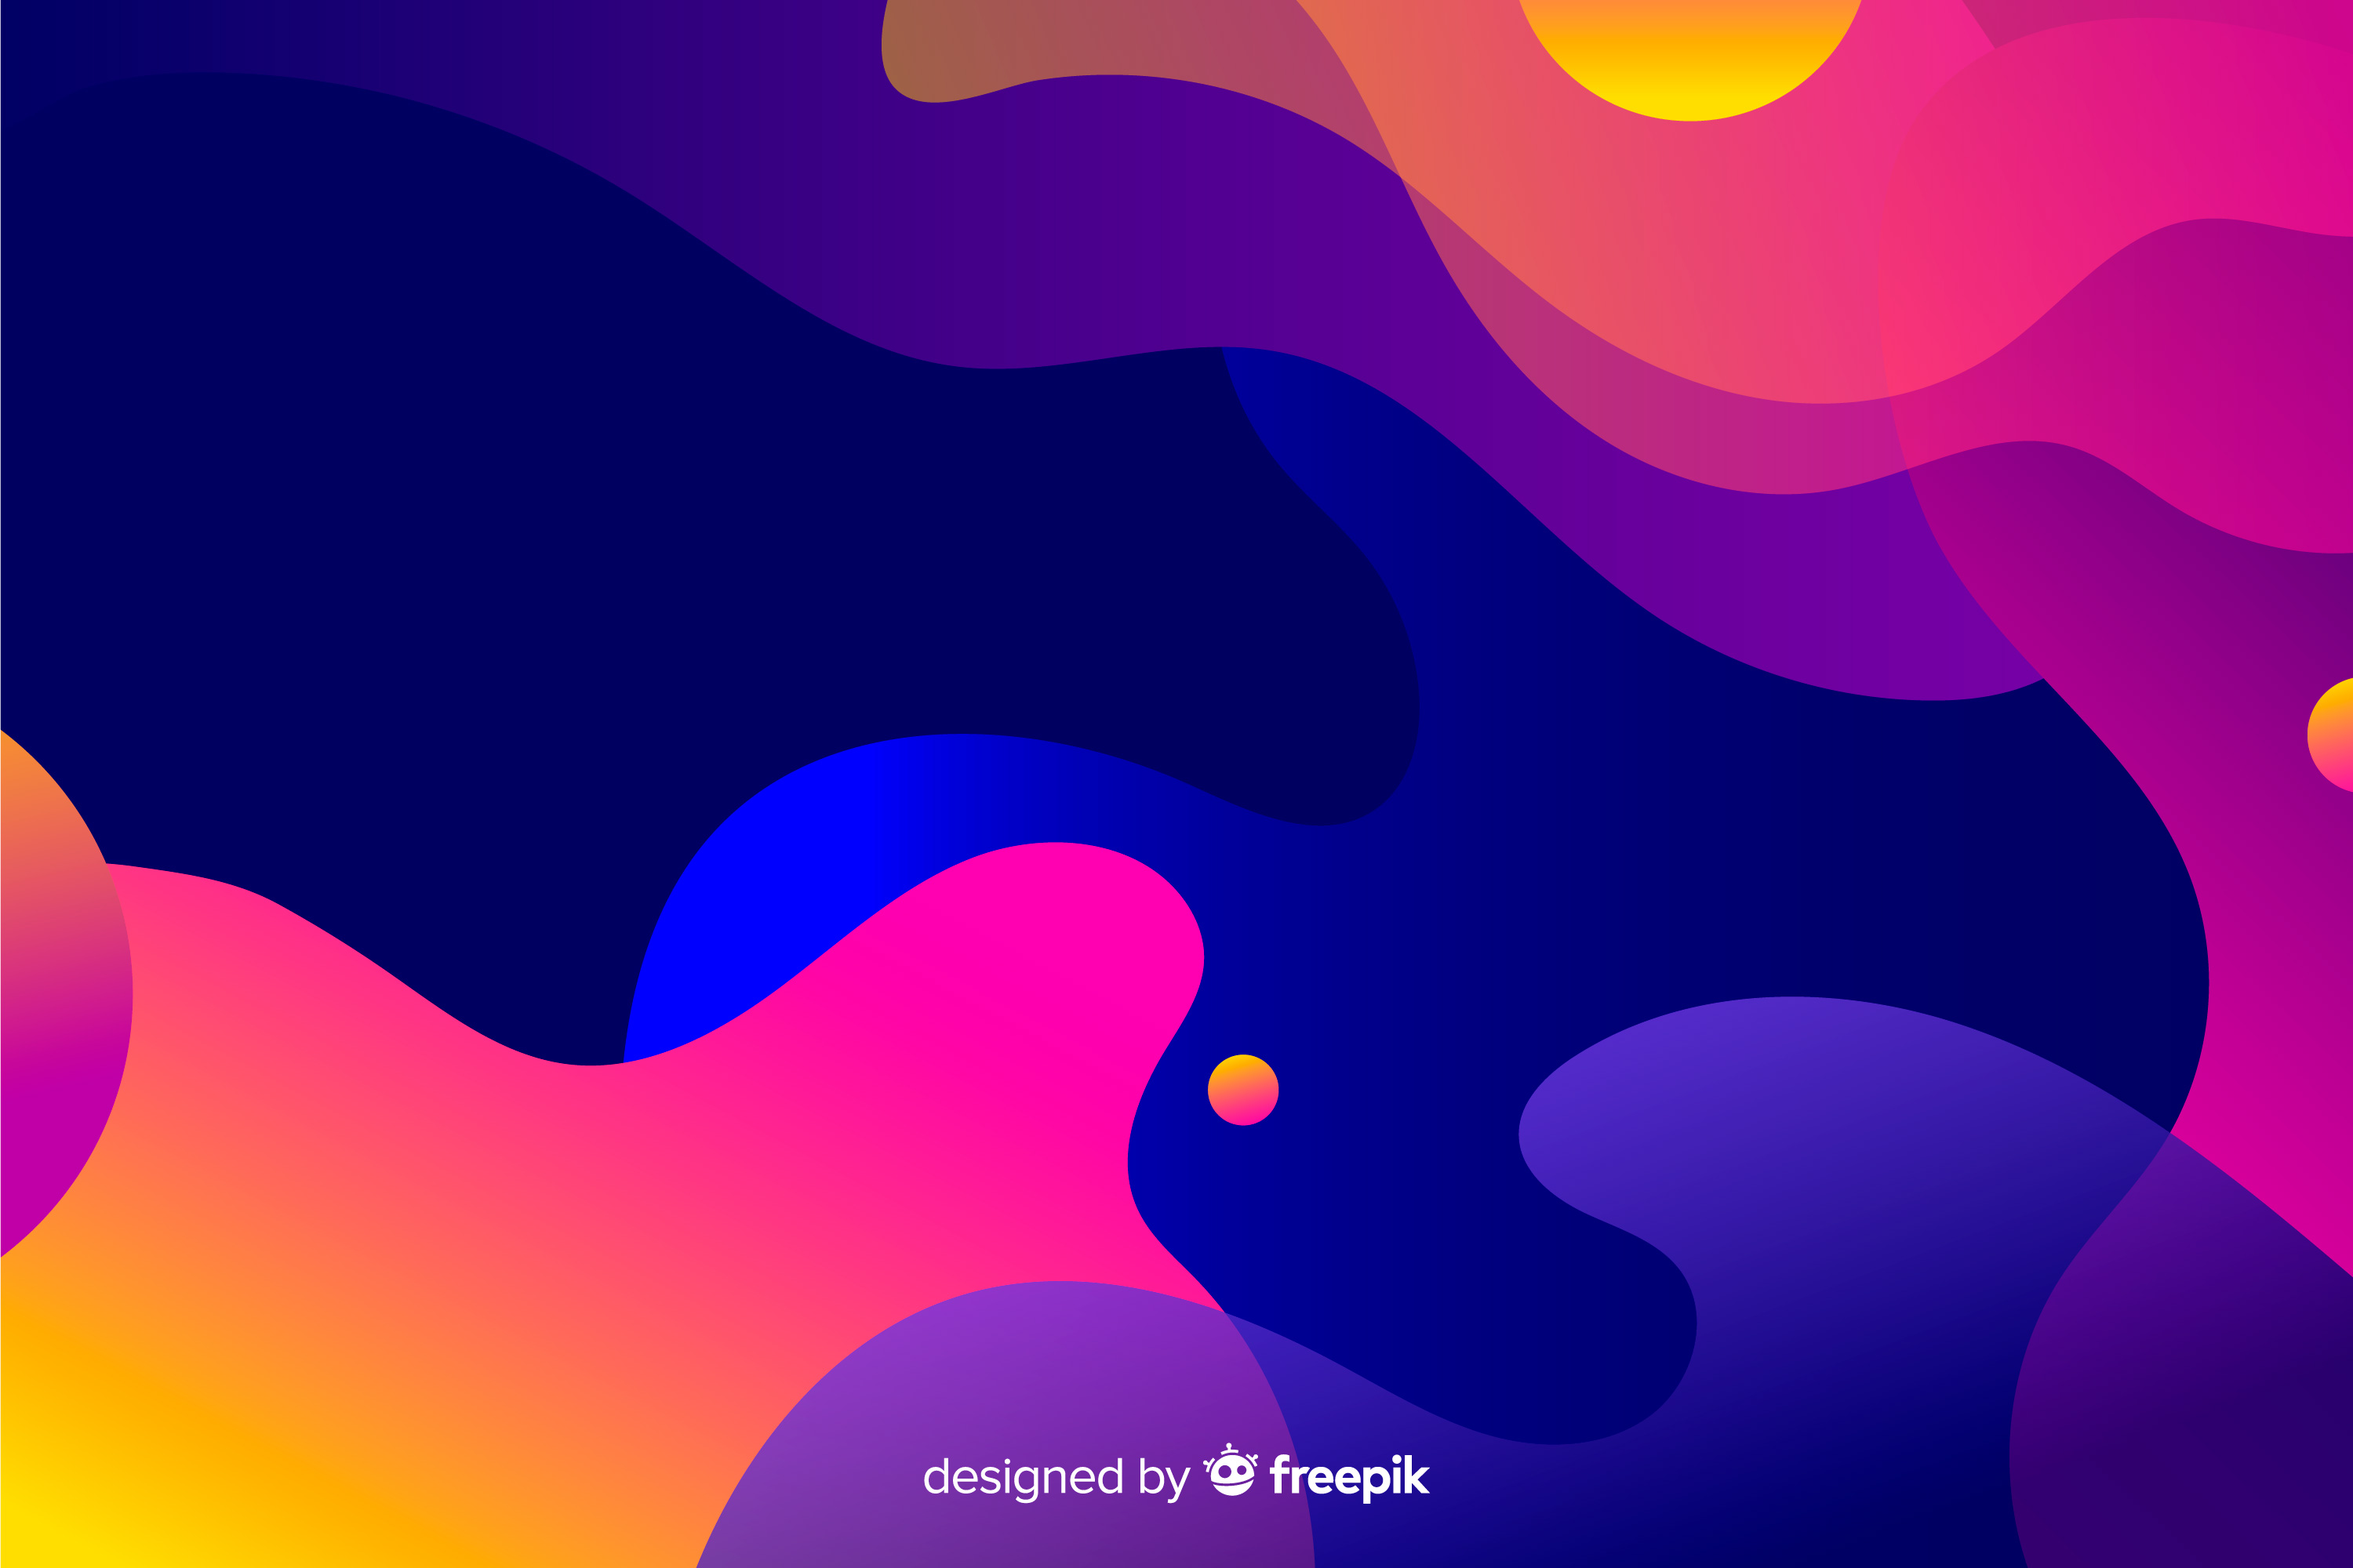
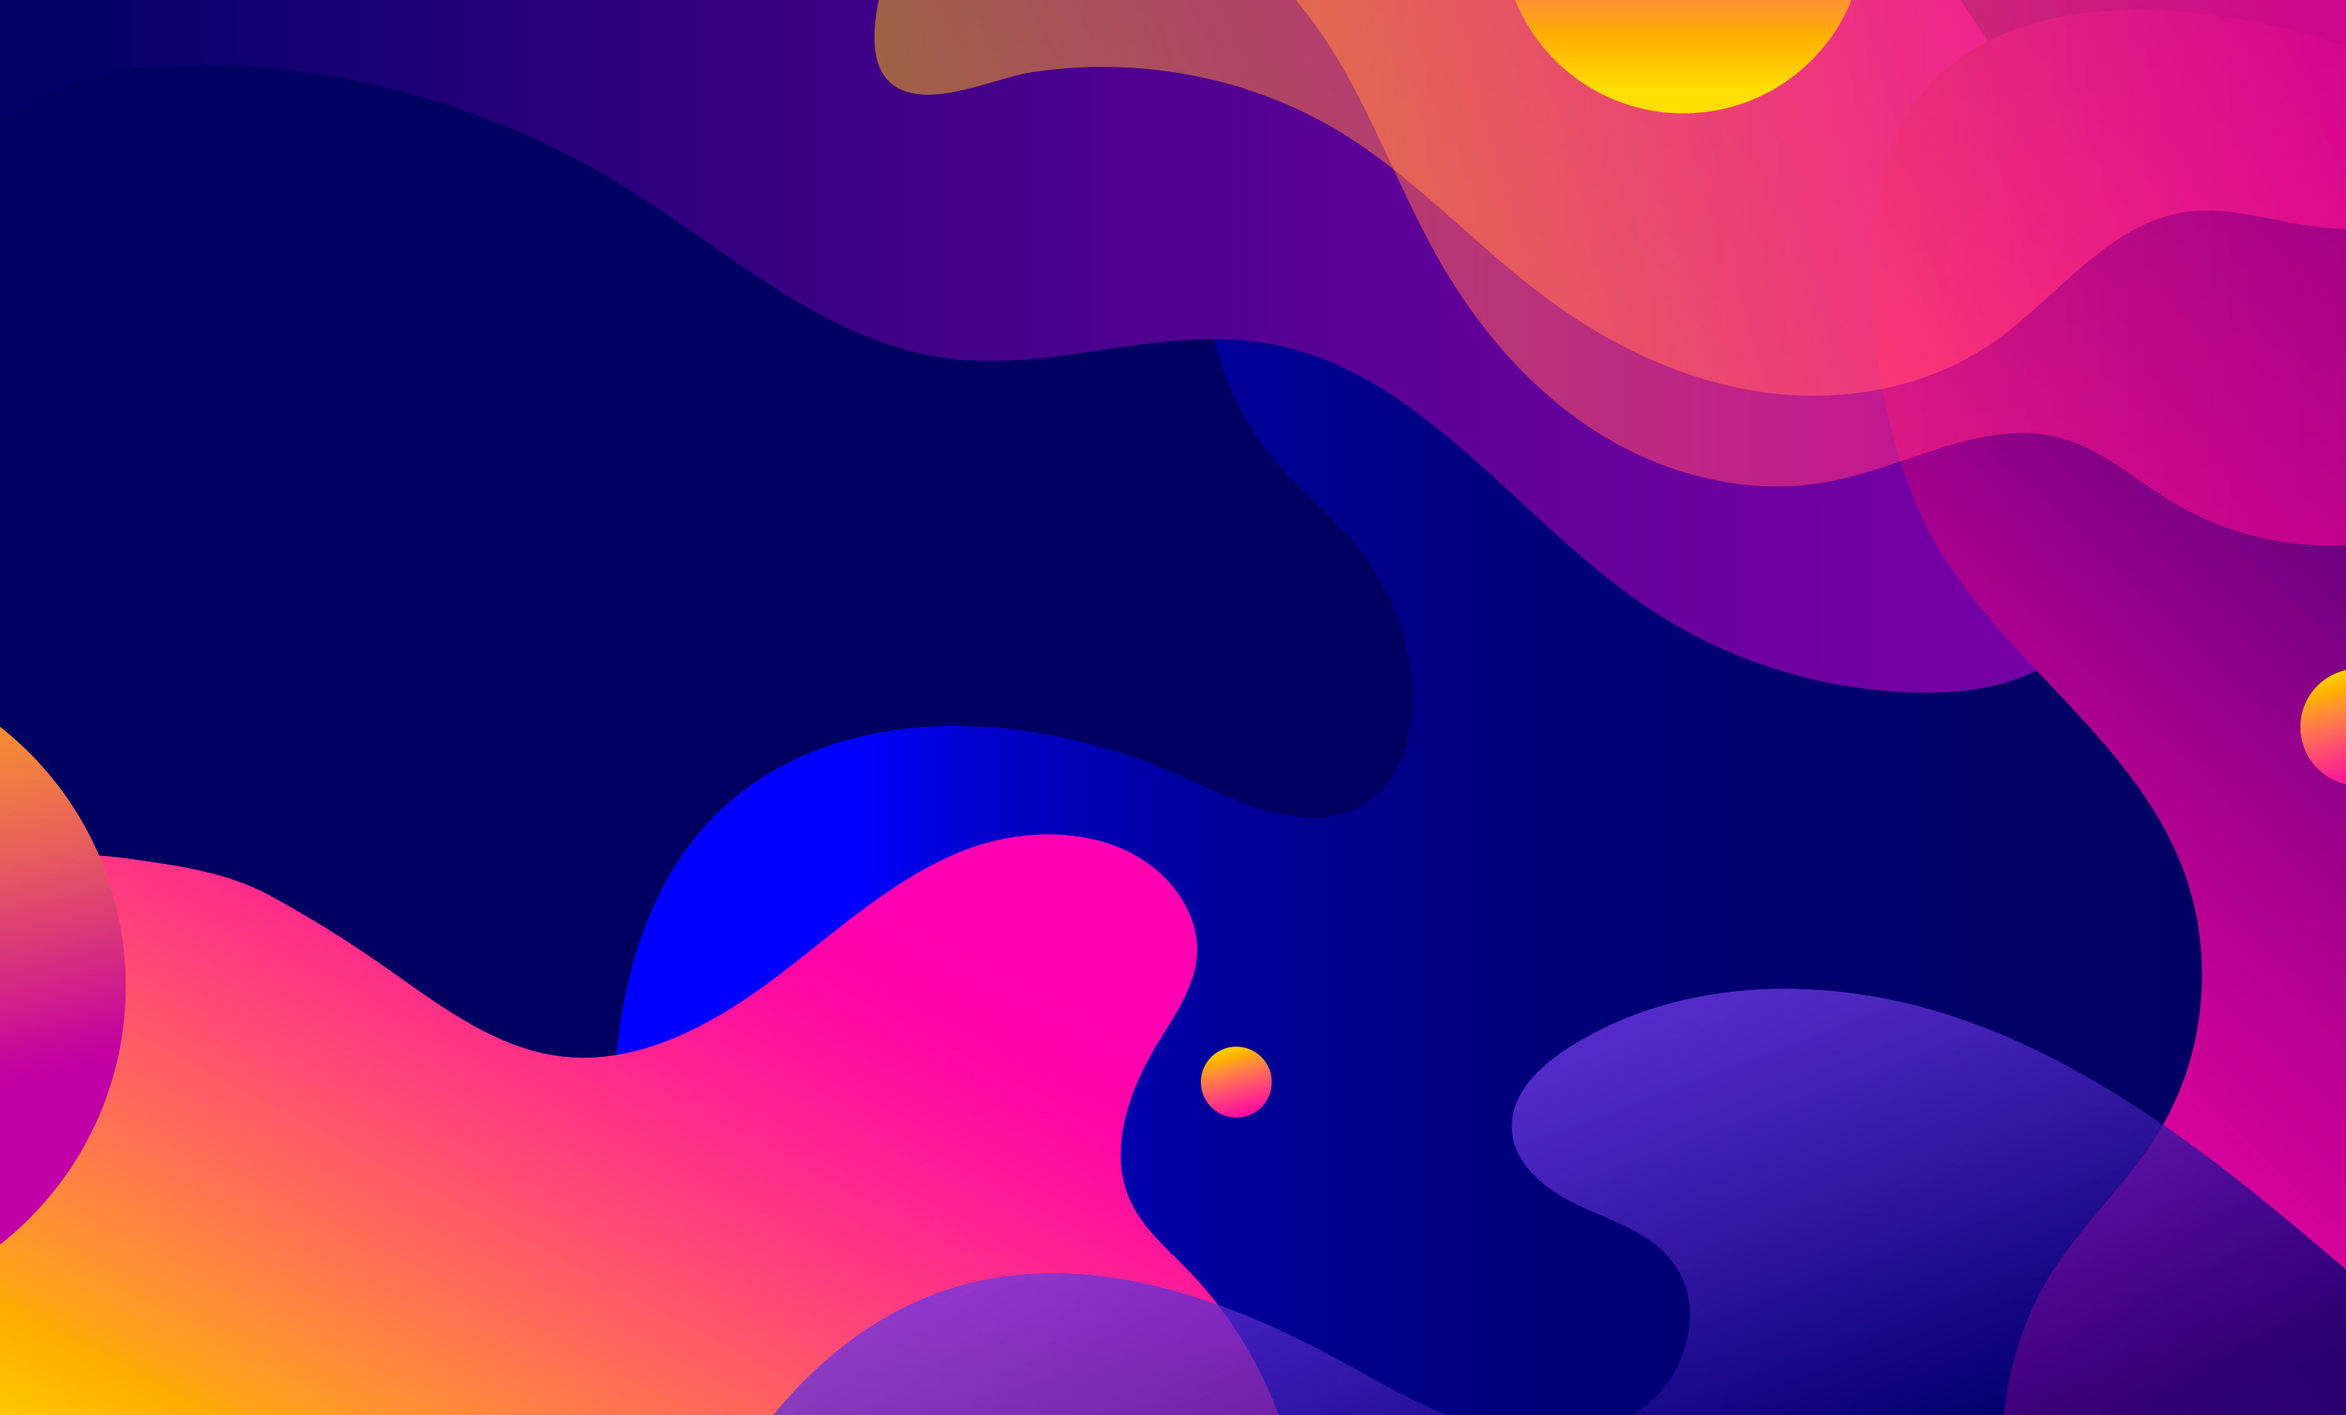
background img contain

diff --git a/index.html b/index.html
@@ -8,7 +8,7 @@
     <nav></nav>
     <div class="header">
         <h1>Hi, I'm Sim.👩🏾💻 </h1>
-        <p>👋🏽 I'm a designer, amateur astronomer, and a Doctor Who fan.</p>
+        <p>👋🏽 I'm a designer, amateur astronomer, and Doctor Who fan.</p>
       </div>
     <article id="current" class="container"></article>
     <article id="items" class="container">

diff --git a/css/index.css b/css/index.css
@@ -6,7 +6,7 @@
 
 .header {
     background-image: url("../img/backimg.jpg");
-    background-size: cover;
+    background-size: contain;
     background-attachment: fixed;
     padding: 150px;
     text-align: center;
